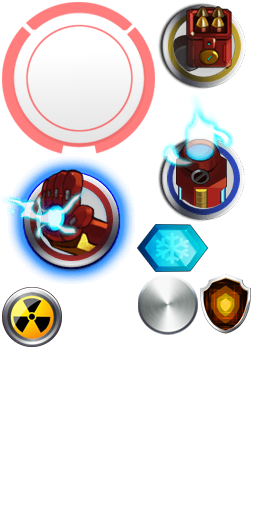
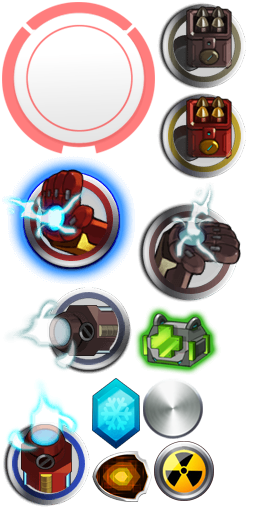
修改礼包界面 扩展界面 控制面板

diff --git a/src/scenes/gameScenes/ControllLayer.js b/src/scenes/gameScenes/ControllLayer.js
@@ -17,6 +17,7 @@ var ControllLayer = cc.Layer.extend({
         this.initSkillBtn_1();
         this.initSkillBtn_2();
         this.initSkillBtn_3();
+        this.initHealthBoxBt();
         this.addListeners();
     },
 
@@ -66,8 +67,15 @@ var ControllLayer = cc.Layer.extend({
 
         button.onTouchEnded = function (touch, type) {
             cc.eventManager.dispatchCustomEvent(SC.CHARACTER_RESET_WEAPON);
-        }
+        };
+
+        var str = ULS.get(USK.PlayInfo).rifle;
+        this.rifleNum = new cc.LabelBMFont(str.toString(), MainRes.customFont.customBMFont_1_fnt);
+        this.rifleNum.setScale(1.1);
+        this.rifleNum.setPosition(cc.p(45, 25));
+        button.addChild(this.rifleNum);
     },
+
     initRocketShootBtn: function () {
         var button = new ButtonNoEdg("controLayerUI_bulletBt_2.png");
         button.setPosition(cc.p(cc.winSize.width * 6 / 8, 80));
@@ -81,7 +89,15 @@ var ControllLayer = cc.Layer.extend({
 
         button.onTouchEnded = function (touch, type) {
             cc.eventManager.dispatchCustomEvent(SC.CHARACTER_RESET_WEAPON);
-        }
+        };
+
+        var str = ULS.get(USK.PlayInfo).rocket;
+
+        this.rocketNum = new cc.LabelBMFont(str.toString(), MainRes.customFont.customBMFont_1_fnt);
+        this.rocketNum.setScale(1.1);
+        this.rocketNum.setPosition(cc.p(30,5));
+        button.addChild(this.rocketNum);
+
     },
 
     initElectricShootBtn: function () {
@@ -97,8 +113,14 @@ var ControllLayer = cc.Layer.extend({
 
         button.onTouchEnded = function (touch, type) {
             cc.eventManager.dispatchCustomEvent(SC.CHARACTER_RESET_WEAPON);
-        }
+        };
 
+        var str = ULS.get(USK.PlayInfo).electric;
+
+        this.electricNum = new cc.LabelBMFont(str.toString(), MainRes.customFont.customBMFont_1_fnt);
+        this.electricNum.setScale(1.1);
+        this.electricNum.setPosition(cc.p(40,5));
+        button.addChild(this.electricNum);
     },
 
     initSkillBtn_1: function () {
@@ -287,6 +309,70 @@ var ControllLayer = cc.Layer.extend({
         this._shieldCDMask = mask;
     },
 
+    //血箱
+    initHealthBoxBt: function () {
+        var button = new ButtonNoEdg("healthBag.png");
+        button.attr({
+            x: cc.winSize.width * 0.05,
+            y: cc.winSize.height * 0.6
+        });
+        this.addChild(button);
+
+        var playInfo = ULS.get(USK.PlayInfo);
+        if (playInfo.healthBoxNum <= 0) {
+            button.setOpacity(85);
+            button.ableTouch = false;
+            playInfo.healthBoxNum = 0;
+            ULS.set(USK.PlayInfo, playInfo);
+        }
+
+        button.onTouchBegan = function (touch, type) {
+            button.ableTouch = false;
+            //cc.eventManager.dispatchCustomEvent(SC.CHARACTER_SHIEL);//加血事件
+            var playInfo = ULS.get(USK.PlayInfo);
+            playInfo.healthBoxNum--;
+            ULS.set(USK.PlayInfo, playInfo);
+
+            this._healthCDMask.runAction(//冷却
+                cc.sequence(
+                    cc.progressFromTo(Math.round(8000 / 1000), 100, 0),
+                    cc.callFunc(function () {
+                        if (playInfo.healthBoxNum <= 0) {
+                            button.setOpacity(85);
+                            button.ableTouch = false;
+                        } else {
+                            button.setOpacity(255);
+                            button.ableTouch = true;
+                        }
+                    }.bind(this), this)
+                )
+            );
+
+
+            this._healthNumPannle.setString(playInfo.healthBoxNum, true);
+        }.bind(this)
+        var str = ULS.get(USK.PlayInfo).healthBoxNum;
+
+        var health = new cc.LabelBMFont(str.toString(), MainRes.customFont.customBMFont_1_fnt);
+        health.setScale(.8);
+        health.setPosition(cc.p(button.x + 30, button.y + 20));
+        this.addChild(health);
+        this._healthNumPannle = health;
+        //CD
+
+        var view = new cc.Sprite("#controLayerUI_skillBt_3.png");
+        view.setColor(cc.color(0, 0, 0, 255));
+        view.setOpacity(130);
+        var mask = new cc.ProgressTimer(view);
+        mask.setReverseDirection(true);
+        mask.type = cc.ProgressTimer.TYPE_RADIAL;
+        mask.setPosition(cc.p(health.x - 20, health.y - 20));
+        this.addChild(mask);
+        this._healthCDMask = mask;
+
+    },
+
+
     onTouchesBegan: function (touches, event) {
         var target = event.getCurrentTarget();
         for (var i = 0, len = touches.length; i < len; ++i) {
@@ -341,12 +427,17 @@ var ControllLayer = cc.Layer.extend({
 
     //新增
     addListeners:function(){
-      cc.eventManager.addCustomListener(SC.DROPITEM_EX_GET, _.bind(
+        cc.eventManager.addCustomListener(SC.DROPITEM_EX_GET, _.bind(
           function(e){
              this.updateNumPannle(e);
           }
           ,this));
+
+        cc.eventManager.addCustomListener(SC.CHARACTER_WEAPON, _.bind(function(e){
+            this.updateBulletNum(e)
+        },this));
     },
+
     updateNumPannle:function(e){
         var type = e.getUserData().typeName;
         //var addNum= e.getUserData().addNum;
@@ -371,5 +462,24 @@ var ControllLayer = cc.Layer.extend({
             default :
                 break;
         }
+    },
+
+    updateBulletNum:function(e){
+        var str=null;
+        switch (e.getUserData().weaponName){
+            case SH.Weapon.Characters.Rifle:
+                str= e.getUserData().Num;
+                this.rifleNum.setString(str.toString(),true);
+                break;
+            case SH.Weapon.Characters.Rocket:
+                str=e.getUserData().Num;
+                this.rocketNum.setString(str.toString(),true);
+                break;
+            case SH.Weapon.Characters.Electric:
+                str=e.getUserData().Num;
+                this.electricNum.setString(str.toString(),true);
+                break;
+        }
     }
+
 })

diff --git a/src/scenes/gameScenes/GameUIlayer.js b/src/scenes/gameScenes/GameUIlayer.js
@@ -17,9 +17,6 @@ var GameUILayer = cc.Layer.extend(
             this.initButtons();
             this.initHpBar();
             this.addEventListener();
-            this._initBulletRifle();
-            this._initBulletElectric();
-            this._initBulletRocket();
             this._initStar();
         },
 
@@ -27,31 +24,8 @@ var GameUILayer = cc.Layer.extend(
             cc.eventManager.addCustomListener(SC.HP_UPDATE, _.bind(function (e) {
                 this.updateHp(e);
             }, this));
-
-            cc.eventManager.addCustomListener(SC.CHARACTER_WEAPON, _.bind(function(e){
-                 this.updateBulletNum(e)
-            },this));
-
         },
 
-        //新增
-        updateBulletNum:function(e){
-            var str=null;
-            switch (e.getUserData().weaponName){
-                case SH.Weapon.Characters.Rifle:
-                    str= e.getUserData().Num;
-                    this.rifleNum.setString(str.toString(),true);
-                    break;
-                case SH.Weapon.Characters.Rocket:
-                    str=e.getUserData().Num;
-                    this.rocketNum.setString(str.toString(),true);
-                    break;
-                case SH.Weapon.Characters.Electric:
-                    str=e.getUserData().Num;
-                    this.electricNum.setString(str.toString(),true);
-                    break;
-            }
-        },
         updateHp: function (e) {
             var data = e.getUserData();
             var hp = data.HP / data.TotalHP;
@@ -103,60 +77,6 @@ var GameUILayer = cc.Layer.extend(
 
         },
 
-
-  //<开始++++++++++++++++++++++++++++++++++++++++++++++++++++++++++++++++++++++++++++++ by Caesar
-        _initBulletRifle: function () {
-            var size = cc.winSize;
-            var buttle_1 = new cc.Sprite("#gameLayerUI_bullet_1.png");
-            this.addChild(buttle_1);
-            buttle_1.attr({
-                x: 0.04 * size.width,
-                y: 0.82 * size.height
-            });
-
-            var str = ULS.get(USK.PlayInfo).rifle;
-            this.rifleNum = new cc.LabelBMFont(str.toString(), MainRes.customFont.customBMFont_1_fnt);
-            this.rifleNum.setScale(.9);
-            this.rifleNum.setPosition(cc.p(buttle_1.x + 50, buttle_1.y - 11));
-            this.addChild(this.rifleNum);
-
-        },
-
-        _initBulletElectric: function () {
-            var size = cc.winSize;
-            var buttle_2 = new cc.Sprite("#gameLayerUI_bullet_3.png");
-            this.addChild(buttle_2);
-            buttle_2.attr({
-                x: 0.04 * size.width,
-                y: 0.62 * size.height
-            });
-
-            var str = ULS.get(USK.PlayInfo).electric;
-
-            this.electricNum = new cc.LabelBMFont(str.toString(), MainRes.customFont.customBMFont_1_fnt);
-            this.electricNum.setScale(.9);
-            this.electricNum.setPosition(cc.p(buttle_2.x + 50, buttle_2.y - 10));
-            this.addChild(this.electricNum);
-
-        },
-
-        _initBulletRocket: function () {
-            var size = cc.winSize;
-            var buttle_3 = new cc.Sprite("#gameLayerUI_bullet_2.png");
-            this.addChild(buttle_3);
-            buttle_3.attr({
-                x: 0.04 * size.width,
-                y: 0.72 * size.height
-            });
-
-            var str = ULS.get(USK.PlayInfo).rocket;
-
-            this.rocketNum = new cc.LabelBMFont(str.toString(), MainRes.customFont.customBMFont_1_fnt);
-            this.rocketNum.setScale(.9);
-            this.rocketNum.setPosition(cc.p(buttle_3.x + 50, buttle_3.y - 11));
-            this.addChild(this.rocketNum);
-        },
-
         _initStar: function () {
             var size = cc.winSize;
 
@@ -175,7 +95,6 @@ var GameUILayer = cc.Layer.extend(
             this.addChild(starnumber);
 
         },
- //++++++++++++++++++++++++++++++++++++++++++++++++++++++++++++++++++++++++++++++结束> by Caesar
 
 
         initButtons: function () {
@@ -193,25 +112,6 @@ var GameUILayer = cc.Layer.extend(
                 pauselayer.setTag(1);
                 pauselayer.setOpacity(255);
                 g_gamelayer.addChild(pauselayer);
-            };
-            var gameLayerUI_addHpBt = new ButtonNoEdg("gameLayerUI_addHpBt.png");
-            this.addChild(gameLayerUI_addHpBt);
-            gameLayerUI_addHpBt.attr({
-                x: 0.20 * size.width,
-                y: 0.90 * size.height
-            });
-
-            gameLayerUI_addHpBt.onTouchBegan = function () {
-                if (g_gamelayer.gameUILayer._hpBarwidth + 5 > 127) {
-                    g_gamelayer.gameUILayer._hpBarwidth = 127;
-                }
-                else {
-                    g_gamelayer.gameUILayer._hpBarwidth += 5;
-                }
-                var percent = g_gamelayer.gameUILayer._hpBarwidth;
-                g_gamelayer.gameUILayer._hpBar.setTextureRect(
-                    cc.rect(0, 0, percent, 20));
-
             };
 
             var gameLayerUI_boxHome = new ButtonNoEdg("gameLayerUI_boxHomeBt.png");
@@ -232,10 +132,10 @@ var GameUILayer = cc.Layer.extend(
             }
             //add boxRedPoint
             var gameLayerUI_boxRedPoint = new cc.Sprite("#gameLayerUI_boxRedPoint.png");
-            this.addChild(gameLayerUI_boxRedPoint);
+            gameLayerUI_boxHome.addChild(gameLayerUI_boxRedPoint);
             gameLayerUI_boxRedPoint.attr({
-                x: 0.83 * size.width,
-                y: 0.93 * size.height
+                x: gameLayerUI_boxHome.width/7*6,
+                y: gameLayerUI_boxHome.height/7*5
             });
         },
 

diff --git a/src/models/monsters/drowItems/DropItem.js b/src/models/monsters/drowItems/DropItem.js
@@ -8,12 +8,9 @@ var DropItem = cc.Sprite.extend({
         //g_gamelayer.dropItemLayer.addChild(this);
         //this.x = monster.getPosition().x;
         //this.y = monster.getPosition().y;
-
         this.setScale(0);
          this._play();
         this.addListeners();
-
-
     },
     addListeners:function (){
          cc.eventManager.addCustomListener(SC.DROPITEM_GET, _.bind(function(e){
@@ -29,7 +26,13 @@ var DropItem = cc.Sprite.extend({
                 ).easing(cc.easeBackOut(.3)),
                 cc.callFunc(
                     function () {
-
+                        var distance = cc.winSize.width- this.x
+                        if(distance>cc.winSize.width/2){
+                            this.runAction(new cc.jumpBy((distance+50)/40,distance+50,0,5,8));
+                        }
+                        else{
+                            this.runAction(new cc.jumpBy((this.x+50)/40,-this.x-50,0,5,8));
+                        }
                     }
                     , this)
             )

diff --git a/src/scenes/gameScenes/GiftBoxLayer.js b/src/scenes/gameScenes/GiftBoxLayer.js
@@ -191,7 +191,7 @@ var GiftBoxLayer = cc.Layer.extend({//参数分别为显示种类，改变对象
     initLable:function(){
         var lable = new cc.LabelTTF("你们看不到我，你们快点把钱都交出来！！！！",2,10);
         this.addChild(lable);
-        lable.setColor(new cc.Color(0,155,155,255));
+        lable.setColor(new cc.Color(255,246,145,155));
         lable.attr({
             x:cc.winSize.width/2,
             y:cc.winSize.height/6-10

diff --git a/src/app.js b/src/app.js
@@ -44,7 +44,8 @@ var AppLayer = cc.Layer.extend({
                 rifle: 100,        // 子弹数
                 bombNum: 5,        // 大招数量
                 freezeNum: 5,         // 冰冻数量
-                shieldNum: 3          // 护盾数
+                shieldNum: 3,          // 护盾数
+                healthBoxNum:5      //医疗箱
             });
         }
 

diff --git a/src/scenes/gameScenes/ExtenPropUILayer.js b/src/scenes/gameScenes/ExtenPropUILayer.js
@@ -68,7 +68,7 @@ var ExtenPropUILayer = cc.Layer.extend({
             x:test1.x,
             y:test1.y-120
         });
-        bottomTitle.setColor(new cc.Color(255,155,15,255));
+        bottomTitle.setColor(new cc.Color(105,139,34,155));
 
         var testImage = new cc.Sprite(type);
         this.addChild(testImage);
